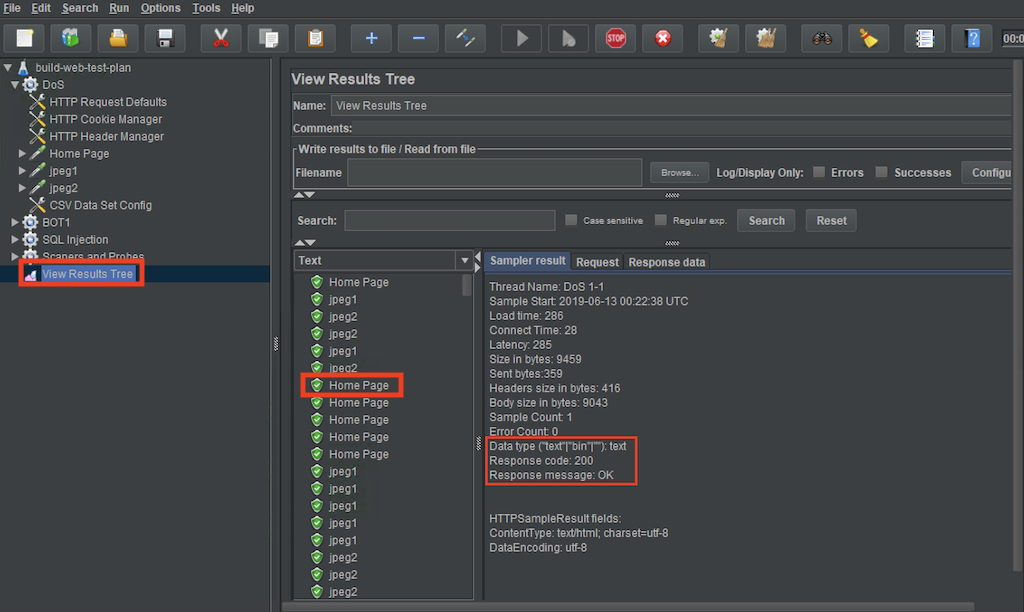
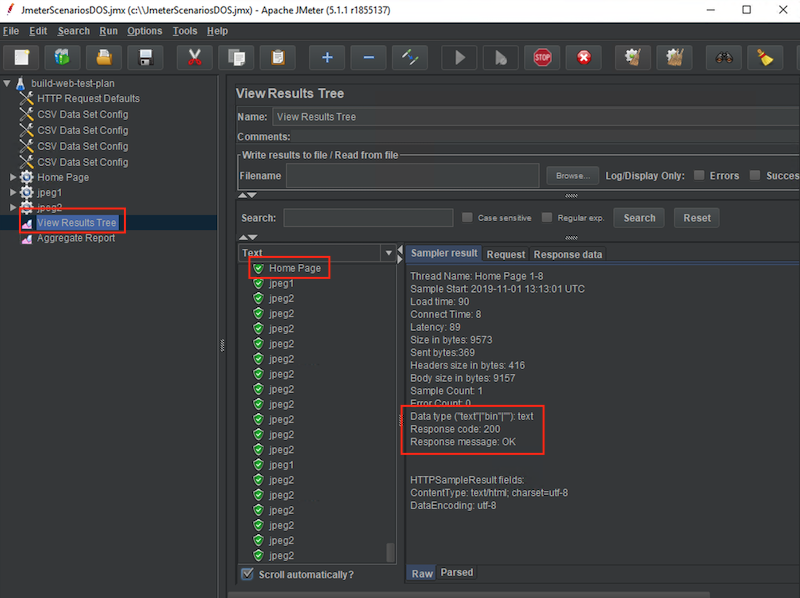
updates to lab1 after new cfn

Changed region(s): [[0.0, 0.0, 1.0, 1.0], [0.4688, 0.1505, 0.9375, 0.1806]]

diff --git a/lab2/README.md b/lab2/README.md
@@ -31,10 +31,10 @@ We will use a honeypot to detect bots crawler our websites and automate blocking
     ![](.//media/image22.png)
 
 2.  In **AWS resources using this web ACL** delete association with WebCarter ALB.
-![](.//media/image21.png)
+    ![](.//media/image21.png)
 
 3.  Choose WAF-automation Web ACL and open **Rules** tab.
-![](.//media/image23.png)
+    ![](.//media/image23.png)
 
 4.  Click **Add association**, then choose **Application load balancer** as **Resource type** and choose your WebCarter load balancer. Click **Add**.
 
@@ -99,10 +99,10 @@ Below you will create indexes and visualizations in your domain.
 
 #### Configure Web ACL logging functionality.
 
-3.  In the **WAF & Shield** AWS console, open **Logging** tab of the **mod-module-1** Web ACL and click **Enable Logging**.
+3.  In the **WAF & Shield** AWS console, open **Logging** tab of the **waflab** Web ACL and click **Enable Logging**.
     **Note**: If you see the splash/informational screen when opening the **WAF & Shield** console please see the [Appendix](#appendix)
 
-4.  Choose Kinesis Data Firehose stream created for the lab **aws-waf-logs-mod-module-1**.
+4.  Choose Kinesis Data Firehose stream created for the lab **aws-waf-logs-waflab**.
 
 5.  **Do Not** add **Redacted Fields** and click **Create**.
 
@@ -123,7 +123,7 @@ Below you will create indexes and visualizations in your domain.
 10. Go to **Management** menu and click **Advanced**. Search for the the ***defaultindex*** then copy and save the default index id value:
     ![](.//media/image5.png)
 
-11. Download and  using the URL in the JAM **Output Properties** webpage or you can right click the kibana-config.json url and select save link as. Open kibana-configruation.json locally and replace the ```_YOUR_ES_INDEX_``` value with the one saved above. Please do it everywhere in the file (approximately 5 times).
+11. Download and using the URL in the AWS CloudFormation **Outputs** webpage or you can right click the *kibana-config.json* url and select save link as. Open kibana-configruation.json locally and replace the ```_YOUR_ES_INDEX_``` value with the one saved above. Please do it everywhere in the file (approximately 5 times).
     ![](.//media/image26.png)
 
 12. Save the file.
@@ -141,7 +141,7 @@ Below you will create indexes and visualizations in your domain.
 
 1.  On the Attacker Windows instance, check if **BOT1** Jmeter scenario is still running. Re-start it if needed to generate more data for this exercise.
 
-2.  Go to AWS Console and choose **ElasticSearch** service. Choose your **mod-module-1-awswaf-logs** domain and click on the Kibana link.
+2.  Go to AWS Console and choose **ElasticSearch** service. Choose your **waflab-awswaf-logs** domain and click on the Kibana link.
 
 3.  Navigate to the **Dashboard** menu on the left and explore the dashboard graphs. Check the number of requests per minute per source IP address.
 
@@ -192,7 +192,7 @@ This scenario simulates a mix of legitimate traffic together with under the rada
 
 15. Click **Create**.
 
-16. Navigate to **Web ACLs** menu and click on **mod-module-1** ACL.
+16. Navigate to **Web ACLs** menu and click on **waflab** ACL.
 
 17. Click **Rules** tab then **Edit Web ACL** button.
 
@@ -237,7 +237,7 @@ In the next steps we'll look at ALB access logs using Amazon **Athena**.
     1.  Click **setup a query result location in Amazon S3**.
         ![](.//media/image27.png)
 
-    2.  Copy the bucket information from the **Output Properties**: **AthenaEditorOutput**.
+    2.  Copy the bucket information from the **Outputs**: **AthenaEditorOutput**.
         ![](.//media/image31.png)
     3.  Paste the copied bucket location in the **Query result location** and then click **Save**.
         ![](.//media/image30.png)
@@ -286,7 +286,7 @@ In the next steps we'll look at ALB access logs using Amazon **Athena**.
 
     **Note** we added two conditions in this rule.
 
-34. Navigate to **Web ACLs** menu and click on **mod-module-1** ACL.
+34. Navigate to **Web ACLs** menu and click on **waflab** ACL.
 
 35. Click **Rules** tab then **Edit Web ACL** button.
 
@@ -313,7 +313,7 @@ You can see that requests from that IP address to /api url been blocked by the W
 
 ### Step 4: Honeypot for bad bots and scrapers.
 
-1.  Copy AddHoneypotSsmCommand from the AWS JAM **Output Properties** webpage.
+1.  Copy AddHoneypotSsmCommand from the AWS CloudFormation **Outputs** webpage.
     ![](.//media/RunCommand.png)
 
 2.  Paste into the Command Prompt inside the Attacker Windows instance

diff --git a/lab1/README.md b/lab1/README.md
@@ -55,7 +55,7 @@ We will simulate a simple cross site scripting attack by placing some HTML code 
 1.  Remote desktop (RDP) to the **Attacker** windows instance, using the [Preparation](#preparation) steps above.
     *   **Note:** Once you login you may be prompted to allow your computer to be discoverable.  You can select **No**, but either will be fine.
 
-2.  On the Attacker instance (RDP Session) open Chrome browser.  It should open the the webcarter ALB URL by default.  Might be in another tab.  Clicking the **Home** button should get you there as well, but you can also find the url cloudformation output:
+2.  On the Attacker instance (RDP Session) open Chrome browser.  It should open the the webcarter ALB URL by default.  Might be in another tab.  Clicking the **Home** button should get you there as well, but you can also find the url cloudformation output tab:
     ![](.//media/image2.png)
 
 3.  In the browser window on the WebCarter site type the following in the **Search** text field and click **Search!**:
@@ -80,7 +80,7 @@ We will simulate a SQL injection attack by placing a sql query in the the search
 #### Simulate a HTTP Flood attack
 We will simulate a HTTP Flood attack by using JMeter to send lots of traffic to the web page.
 
-7.  Run Apache JMeter by clicking on the jmeter-waf shortcut on the desktop.
+7.  Run the DOS Scenario Apache JMeter by clicking on the DOS shortcut on the desktop.
 
     ![](.//media/image8.png)
 
@@ -96,10 +96,11 @@ We will simulate a HTTP Flood attack by using JMeter to send lots of traffic to 
 #### Simulate a Bad Bot attack
 We will simulate a bad bot attack by using Apache Benchmark to send 100 http requests using the User-Agent = bad-bot.
 
-11. Open a cmd window and change directory to **C:\Apache24\bin**.
+11. Open a Command window using the CMD shortcut on the desktop and change directory to **C:\Apache24\bin**.
+    ![](.//media/image36.png)
 
 12. Run Apache Benchmark:
-*   Copy the abLoadTestCommand from the **Outputs** tab on of the CloudFormation stack.
+*   Copy the abLoadTestCommand from the **Outputs** tab on of the CloudFormation stack.  Right click and copy.
     ![](.//media/image14.png)
 *   Run the command in a Command Prompt window
 *   Assure that ab run above was successful:
@@ -213,7 +214,7 @@ In this step we'll repeat the attacks in Step 1 above and assure they're blocked
 4.  Assure you get HTTP 403 response from WAF:
     ![](.//media/image24.png)
 
-5.  Start JMeter DoS scenario and navigate to the Results tree. Watch the request till they start failing after reaching 2000 requests / 5 min as configured in your rate-based rule:
+5.  Start JMeter DOS scenario again, clicking the green play arrow in the menu ribbon, and navigate to the Results tree. Watch the request till they start failing after reaching 2000 requests / 5 min as configured in your rate-based rule:
     ![](.//media/image25.png)
 
 6.  Go to AWS WAF Console and navigate to **Rules-\> HTTPFlood1Rule**.  Notice IP addresses that are currently blocked by this rule:
@@ -255,10 +256,12 @@ In this lab you protected your Web application against Cross-site scripting, SQL
 10. Perform the steps outlined in step 9 above for each of the remaining rules (SQLInjection1Rule & XSS1Rule)
 
 You are only charged for WebACLs and Rules.  You are not charged for each condition.  You are welcome to clean up each of the conditions we created (XSS1, SQLInjection1, BadBot1), but you will not be charged if you leave them.
-    1.   To remove click each of the conditions, select each specific condition (list below) and delete each filter.
-    - Cross-Site Scripting - XSS1
-    - SQL Injection - SQLInjection1
-    - String and regex matching - BadBot1
+
+1.  To remove click each of the conditions, select each specific condition (list below) and delete each filter.
+
+    -   Cross-Site Scripting - XSS1
+    -   SQL Injection - SQLInjection1
+    -   String and regex matching - BadBot1
 ***
 
 ### Appendix:

diff --git a/README.md b/README.md
@@ -7,7 +7,6 @@ Protecting web applications from common web vulnerablities, bots, and scrapers w
 The cloudformation template will create EC2 instances, NAT GW's, an ALB, WAF, Lambda's, an API GW, S3 Buckets, Kinesis Firehose, RDS Database, a Glue data catalog, and an ElasticSearch cluster.  The items created via the CloudFormation template should be removed when you delete the CloudFormation stack.  Any manual steps you take during the lab, in the AWS console or via the aws cli,  will need to be cleaned up.  At the end of each lab there will be instructions on how to clean up any of the manual steps performed.  If you have performed any additional steps on your own you should be sure to clean them up as well.
 
 # Introduction #
-
 In the labs you will get familar with AWS WAF and how you can use it protect a web application.
 
 For lab1 you will perform some common web application attacks and then you will implement an AWS WAF to protect your application from these exposures without the need to update any web application code.
